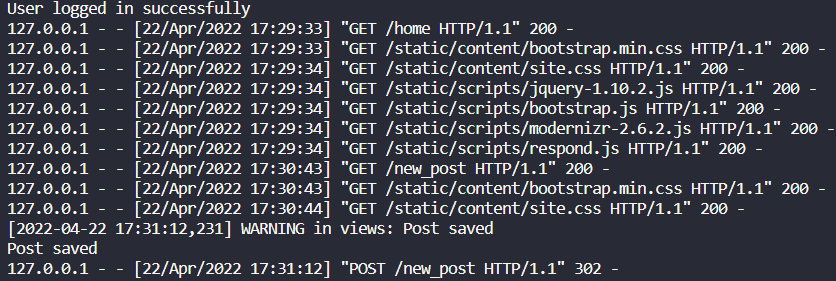
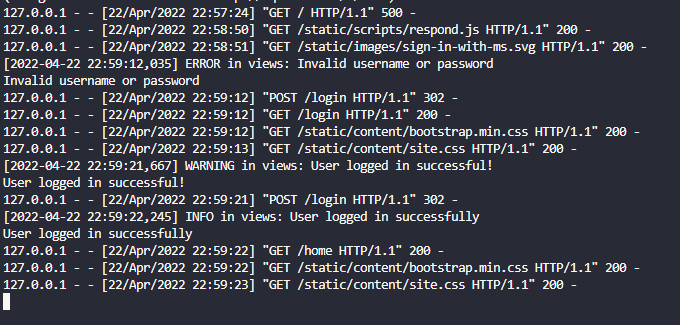
Change image of logger

diff --git a/FlaskWebProject/views.py b/FlaskWebProject/views.py
@@ -69,6 +69,7 @@ def login():
     if form.validate_on_submit():
         user = User.query.filter_by(username=form.username.data).first()
         if user is None or not user.check_password(form.password.data):
+            app.logger.error("Invalid username or password")
             flash('Invalid username or password')
             return redirect(url_for('login'))
         login_user(user, remember=form.remember_me.data)
